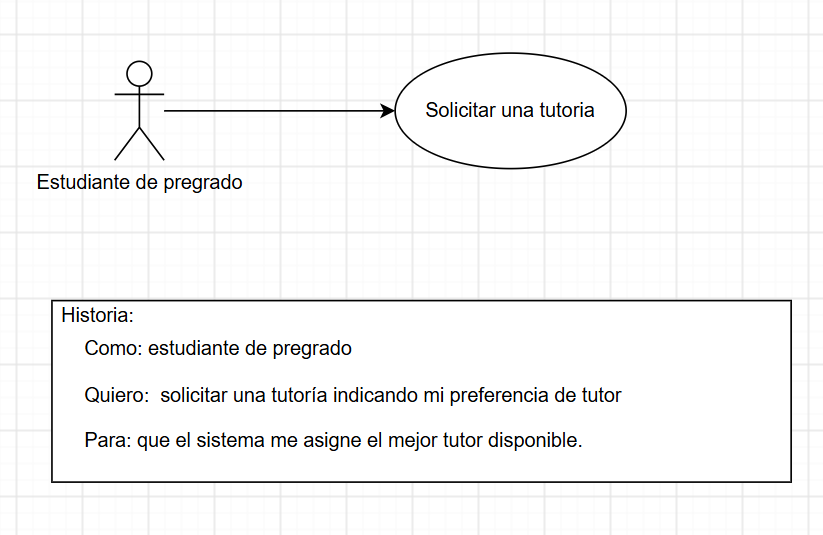
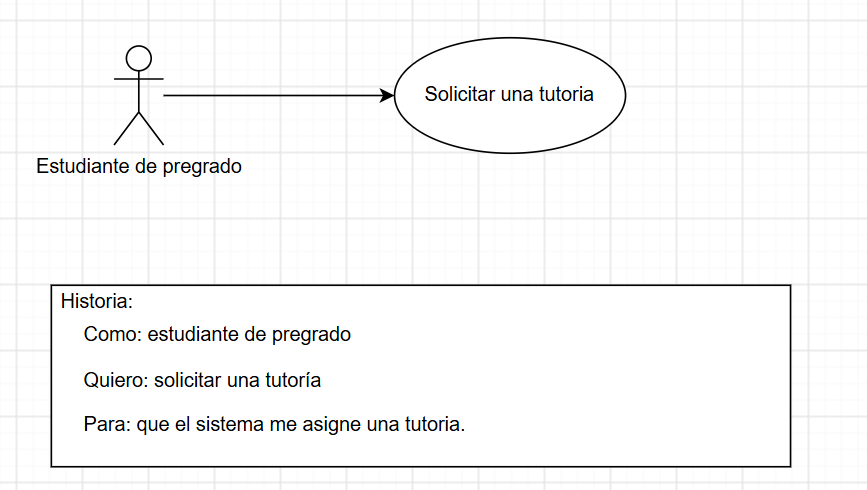
fix: requisito funcional 1 fix

diff --git a/README.md b/README.md
@@ -11,6 +11,7 @@
 
 1. Permitir a los estudiantes de pregrado solicitar tutorias
 2. El sistema debe notificar a los estudiantes acerca de si su reserva de tutoria fue asignada y confirmada
+3. 
 
 ### 7.2 Requerimientos no funcionales
 
@@ -19,19 +20,19 @@
 
 ### Criterios de aceptacion
 
-### Requerimiento Funcional 1
+#### Requerimiento Funcional 1
 
 | **Campo** | **Descripción** |
 | ---------------------------- | ------------------------------------------------------------------------------------- |
 | **ID**                       | RF-01 |
 | **Nombre del requerimiento** | Solicitar tutoria |
-| **Descripción**              | El sistema debe permitir a los solicitantes (estudiantes de pregrado) solicitar  una tutoría indicando mi preferencia de tutor (profesor o estudiante de posgrado). |
+| **Descripción**              | El sistema debe permitir a los solicitantes (estudiantes de pregrado) solicitar una tutoría. |
 | **Precondiciones**           | El solicitante debe estar inscrito a la materia de la que realiza la solicitud |
 | **Flujo principal**          | 1. El solicitante selecciona la opción para solicitar una tutoria segun sus necesidades.<br>2. El sistema solicita la información del estudiante.<br>3. El sistema verifica la fecha y disponibilidad de los tutores validos.<br>4. El sistema valida la información.<br>5. El sistema registra la tutoria. |
 | **Diagrama de caso de uso**  | ![Solicitar tutoria](docs/uml/caso1.png) |
 | **Poscondiciones**           | La tutoria queda registrada en el sistema y disponible para revisar |
 
-### Requerimiento Funcional 2
+#### Requerimiento Funcional 2
 
 | **Campo** | **Descripción** |
 | ---------------------------- | ------------------------------------------------------------------------------------- |
